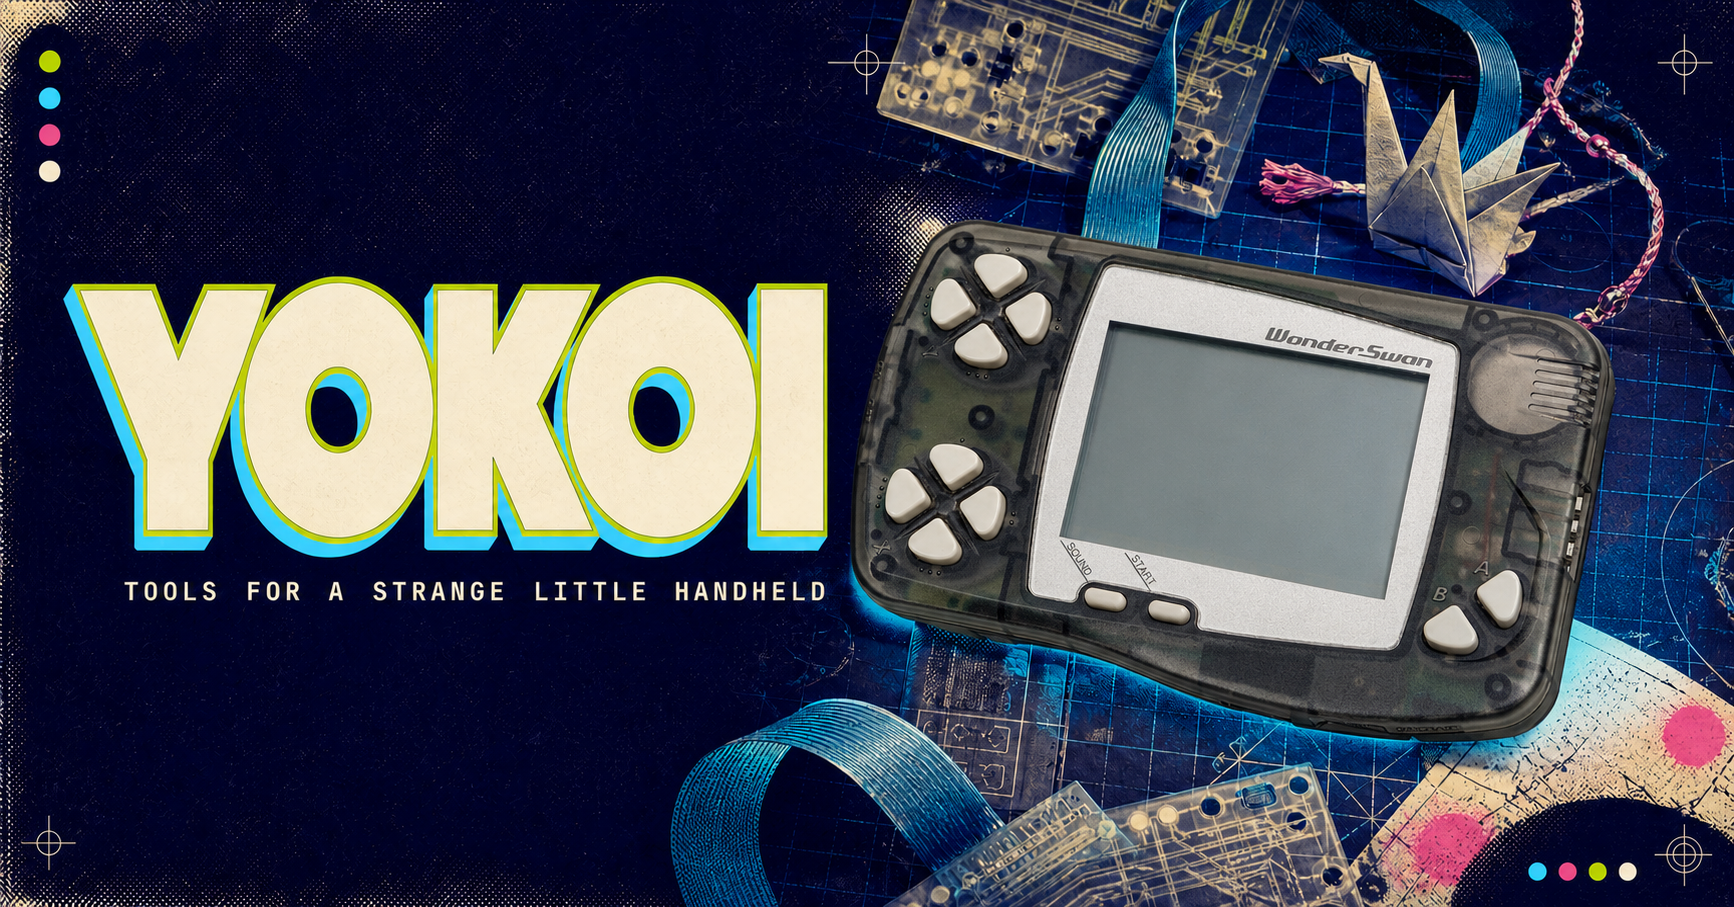
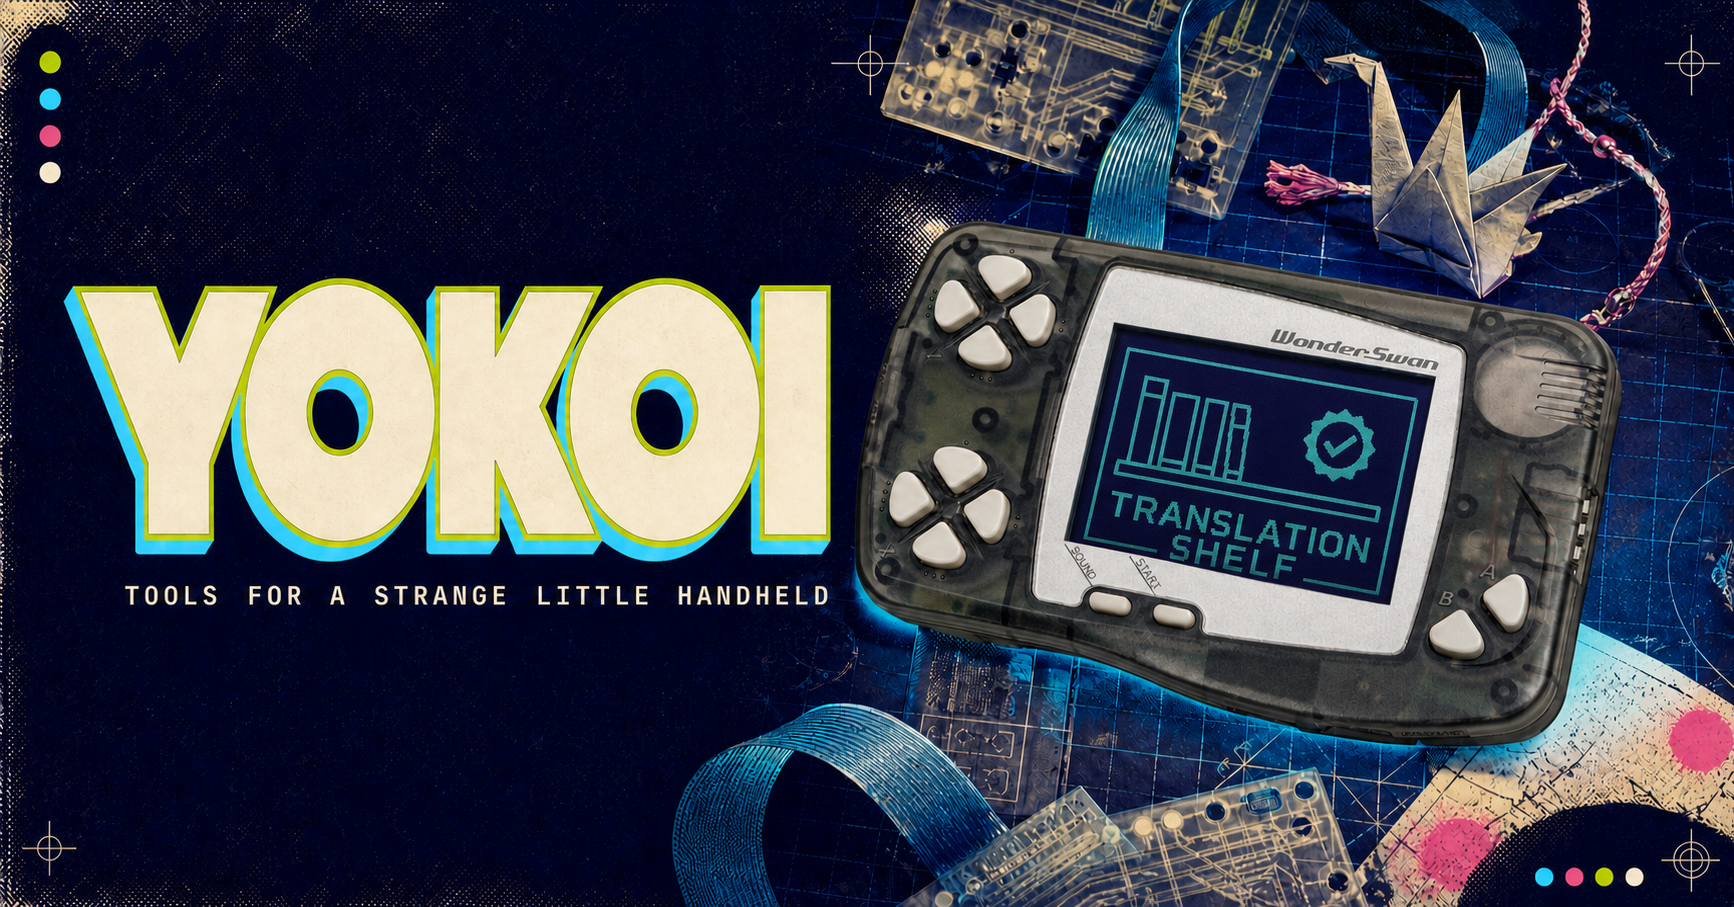
Feature SwanSong 0.9 beta on Yokoi

diff --git a/app/page.tsx b/app/page.tsx
@@ -6,6 +6,10 @@ import { translationCatalog } from "./data/translationCatalog";
 
 const githubOrgUrl = "https://github.com/RegionallyFamous";
 const desktopRepoUrl = "https://github.com/RegionallyFamous/SwanSong-Desktop";
+const desktopStableUrl =
+  "https://github.com/RegionallyFamous/SwanSong-Desktop/releases/latest";
+const desktopBetaUrl =
+  "https://github.com/RegionallyFamous/SwanSong-Desktop/releases/tag/v0.9.0";
 const coreRepoUrl = "https://github.com/RegionallyFamous/swansong-core";
 const storyForgeRepoUrl = "https://github.com/RegionallyFamous/swansong-story-forge";
 const homebrewReposUrl =
@@ -157,18 +161,24 @@ export default function Home() {
               <h3>SwanSong Desktop</h3>
               <p>
                 A private, native WonderSwan player and translation workbench
-                designed for the Mac.
+                for Mac. The 0.9 beta adds Translation Shelf for locally
+                verified, separately managed fan translations.
               </p>
               <ul className="chip-list" aria-label="SwanSong Desktop features">
                 <li>NATIVE MACOS</li>
-                <li>ARES ENGINE</li>
-                <li>TRANSLATION LAB</li>
+                <li>TRANSLATION SHELF</li>
+                <li>PRIVATE BY DEFAULT</li>
               </ul>
             </div>
-            <div className="card-actions">
-              <span>PUBLIC REPOSITORY</span>
+            <div className="card-actions card-actions-triple">
+              <a href={desktopStableUrl} target="_blank" rel="noreferrer" data-cuelume-hover="tick">
+                Download stable <span aria-hidden="true">↓</span>
+              </a>
+              <a href={desktopBetaUrl} target="_blank" rel="noreferrer" data-cuelume-hover="tick">
+                Try 0.9 beta <span aria-hidden="true">↗</span>
+              </a>
               <a href={desktopRepoUrl} target="_blank" rel="noreferrer" data-cuelume-hover="tick">
-                View on GitHub <span aria-hidden="true">↗</span>
+                GitHub <span aria-hidden="true">↗</span>
               </a>
             </div>
           </article>

diff --git a/app/layout.tsx b/app/layout.tsx
@@ -23,7 +23,7 @@ export async function generateMetadata(): Promise<Metadata> {
   const title = "Yokoi — Tools for a Strange Little Handheld";
   const description =
     "Open WonderSwan projects, hardware experiments, printable objects, and useful downloads.";
-  const socialImage = `${origin}/og.png?v=20260716-wonderswan`;
+  const socialImage = `${origin}/og.png?v=20260723-swansong09`;
 
   return {
     metadataBase: new URL(origin),
@@ -43,7 +43,7 @@ export async function generateMetadata(): Promise<Metadata> {
           url: socialImage,
           width: 1734,
           height: 907,
-          alt: "Yokoi with an original translucent WonderSwan handheld",
+          alt: "Yokoi with a translucent WonderSwan showing SwanSong Translation Shelf",
         },
       ],
     },